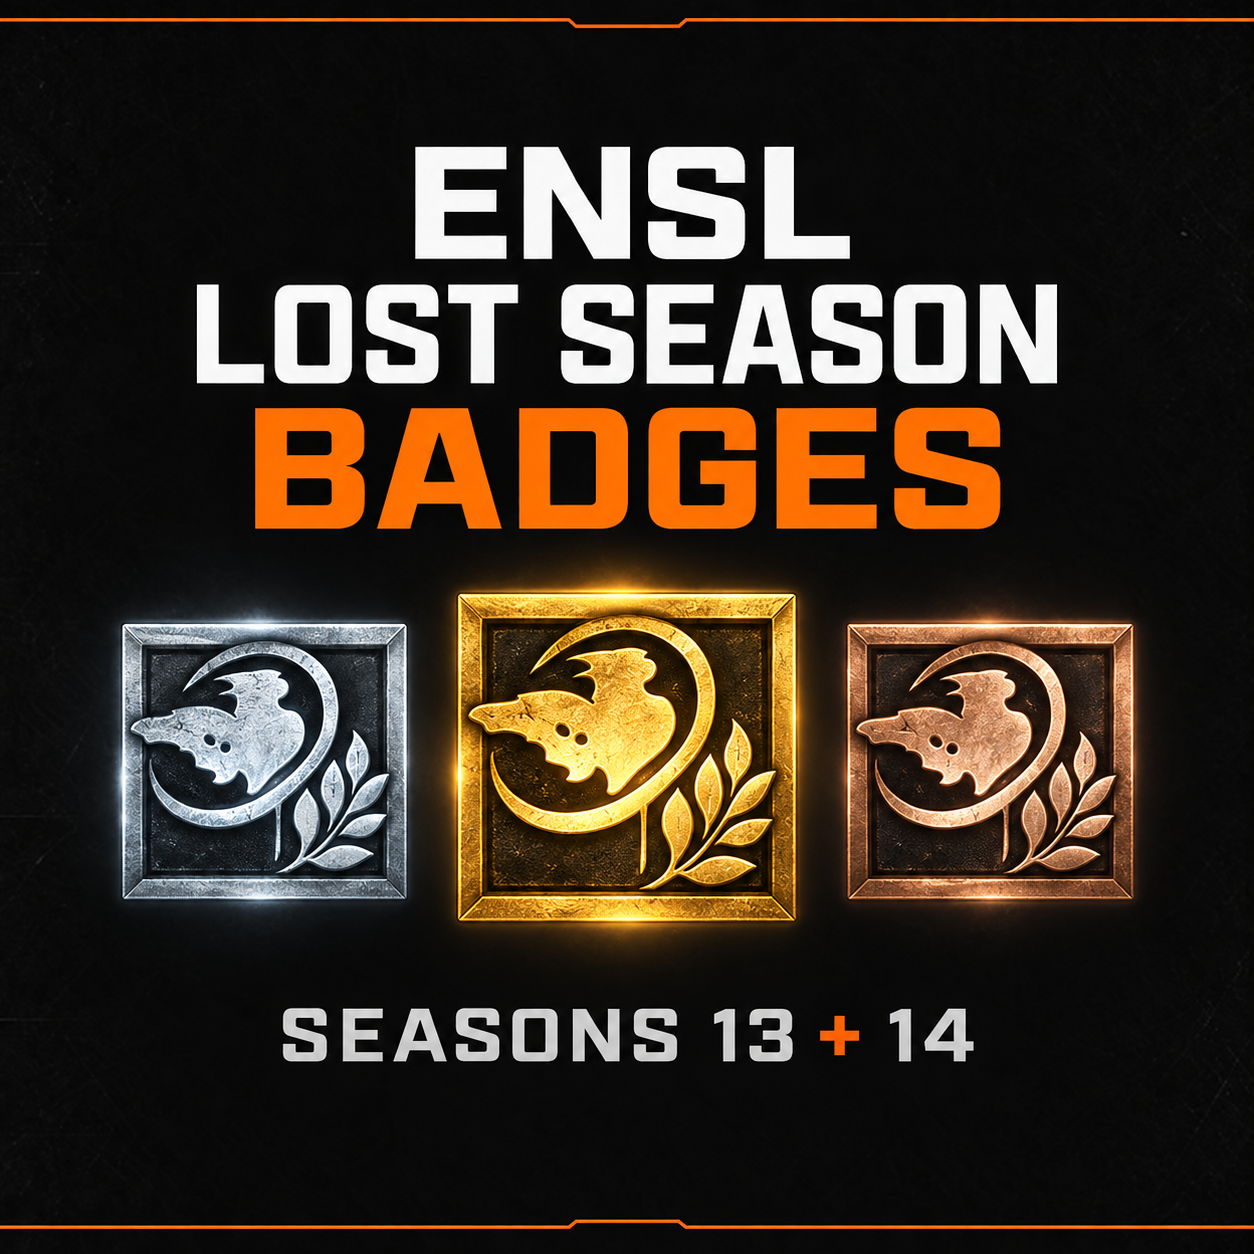
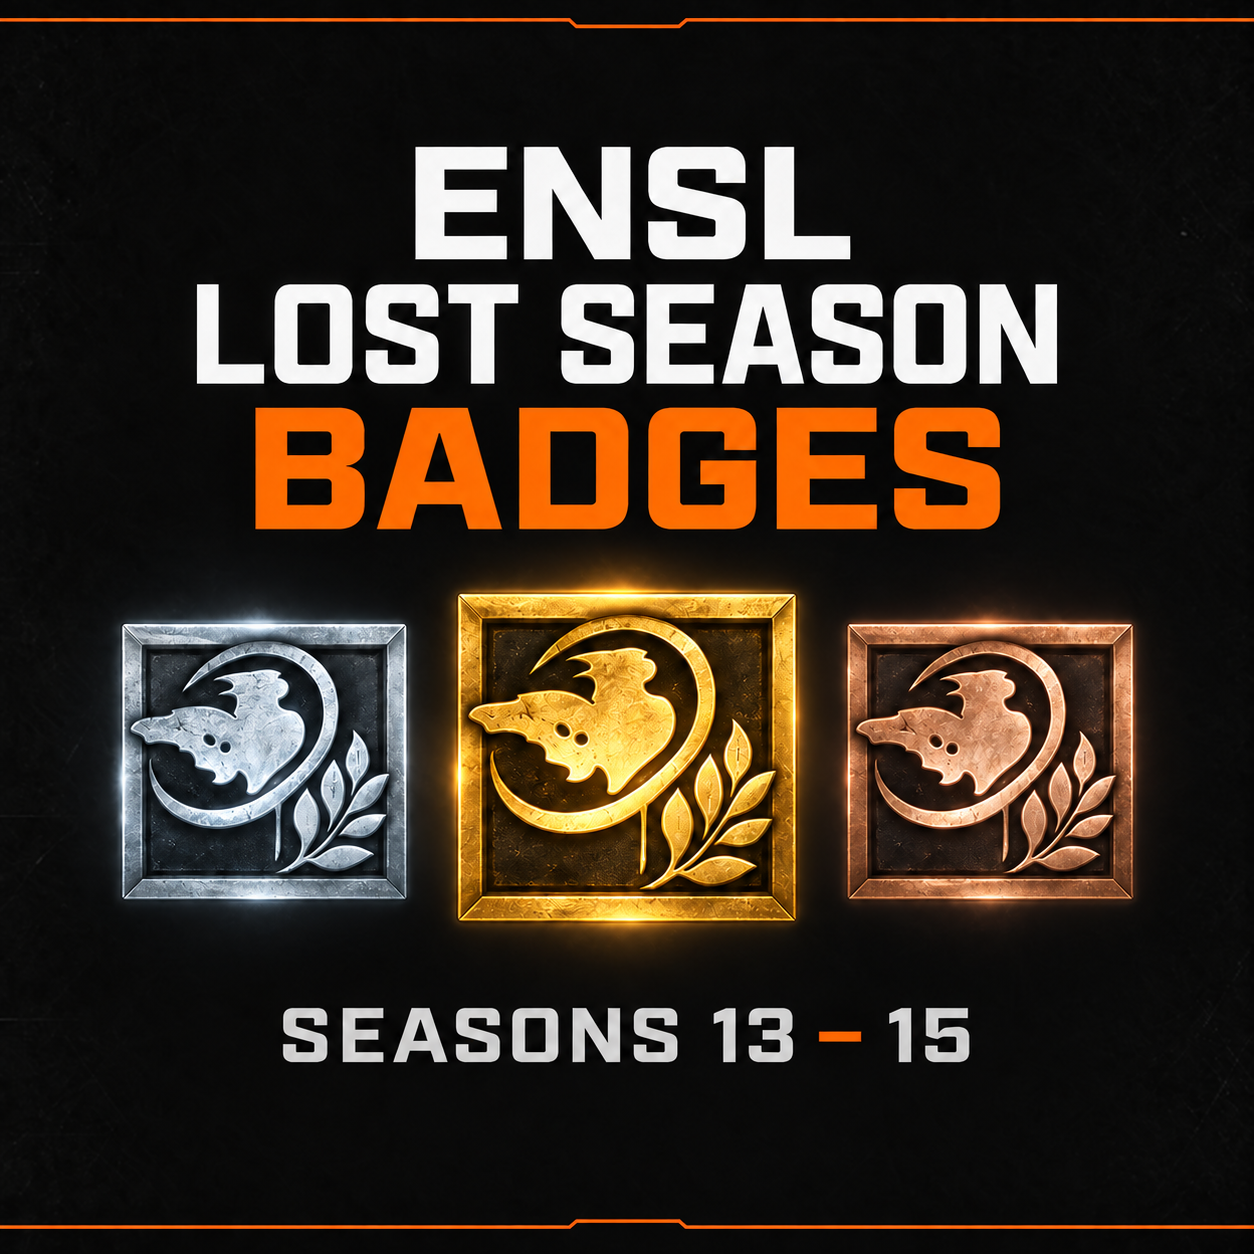
Include Season 15 awards and update Workshop cover

diff --git a/PLAN.md b/PLAN.md
@@ -4,9 +4,9 @@ Prepared 2026-09-15. Status: plan accepted; account research is the next milesto
 
 ## Objective and scope
 
-Create a standalone NS2 Workshop mod restoring Season 13 and Season 14 awards. Match existing ENSL artwork, tooltips, selection behavior, and in-game display as closely as the custom badge system permits. Assign eligibility to verified Steam accounts using NS2 account IDs.
+Create a standalone NS2 Workshop mod restoring Season 13, Season 14, and Season 15 awards. Match existing ENSL artwork, tooltips, selection behavior, and in-game display as closely as the custom badge system permits. Assign eligibility to verified Steam accounts using NS2 account IDs.
 
-Scope: NS2 Season 13 (2018), including all three divisions, and Season 14 (2018–2019). The older NS1 seasons and other tournaments are outside this project.
+Scope: NS2 Season 13 (2018), including all three divisions; Season 14 (2018–2019); and Season 15 (2019), including both divisions. The older NS1 seasons and other tournaments are outside this project.
 
 ## 1. Establish the award list
 
@@ -20,10 +20,14 @@ Accepted awards derived from the [Hall of Fame](https://www.ensl.org/halloffame)
 | Season 13, Division 2 | FaLLeN SouLs | patriarchy | Saunabois |
 | Season 13, Division 3 | Nismen | For The Lolz | Intergalactic |
 | Season 14 | Thots | Pubstars | Nismen |
+| Season 15, Division 1 | Code of Misconduct | 5 piece combo | Unassigned unless the next eligible team can be verified |
+| Season 15, Division 2 | California Burrito | Shoobs | Tim Tam Slams |
 
 Use Season 14's ladder order to fill the promoted podium. Its two-team playoff lists the same original top two, so it does not create a second set of awards.
 
 Season 13 Division 1 bronze is omitted. The user reported site data loss and accepted proceeding without reconstructing this placement. Do not infer a recipient from registration order or an unrelated group-stage ranking. Revisit only if reliable historical evidence becomes available; recovery is not a prerequisite for the mod.
+
+Season 15 adds five established award placements. Division 1 bronze remains unassigned: the Hall of Fame lists no next team, and the detailed playoffs page (https://www.ensl.org/contests/393) could not be retrieved. Do not guess a recipient. Include bronze only if reliable final standings and a historical roster establish the next eligible team; otherwise omit it. See [Season 15 scope and roster notes](docs/season-15.md).
 
 Record original and promoted ranks, source links, and promotion reasons. These are the mod's awards under the user's rule, not a claim that ENSL officially reassigned medals.
 
@@ -93,7 +97,7 @@ This can reproduce the experience on servers running the mod. It cannot issue of
 ## Review sequence
 
 1. Plan and award policy accepted; Season 13 Division 1 bronze omitted.
-2. Produce the account-matching table for the 11 awarded team placements.
+2. Produce the account-matching table for the 16 established awarded team placements; add S15 D1 bronze only if a next eligible team is verified.
 3. Demonstrate native integration and the visual reference.
 4. Complete all awards, validate compatibility, and prepare publication.
 

diff --git a/docs/artwork.md b/docs/artwork.md
@@ -4,7 +4,7 @@
 
 ![Existing ENSL medals](ensl-badge-reference.png)
 
-These are decoded copies of the installed NS2 textures, enlarged with nearest-neighbor scaling for inspection. The small versions underneath show the original 32 x 32 pixels. They are reference artwork, not new Season 13/14 textures.
+These are decoded copies of the installed NS2 textures, enlarged with nearest-neighbor scaling for inspection. The small versions underneath show the original 32 x 32 pixels. They are reference artwork, not new Season 13/14/15 textures.
 
 - Season 12: gold, silver, bronze; Gorge emblem and 2018 year. The three divisions share artwork but have separate names and award identifiers.
 - Seasons 16 and 17: the same general medal family with 2020 beneath the emblem.
@@ -13,9 +13,9 @@ These are decoded copies of the installed NS2 textures, enlarged with nearest-ne
 
 ## Proposed in-game direction
 
-Keep the compact Gorge emblem, medal colors, transparent silhouette, and native scale. Use season/division/place in the tooltip. Season 13 took place in 2018; Season 14 crossed 2018–2019. Settle the Season 14 year treatment when preparing actual textures, instead of accidentally displaying Season 12's year.
+Keep the compact Gorge emblem, medal colors, transparent silhouette, and native scale. Use season/division/place in the tooltip. Season 13 took place in 2018; Season 14 crossed 2018–2019; Season 15 took place in 2019. Settle the Season 14 year treatment when preparing actual textures, instead of accidentally displaying Season 12's year.
 
-There are 11 awarded team placements. No S13 D1 bronze recipient or award is planned. Distinct award identifiers may share the same visual texture.
+There are 16 established awarded team placements. No S13 D1 bronze recipient or award is planned. S15 D1 bronze is unassigned unless the next eligible team can be verified. Distinct award identifiers may share the same visual texture.
 
 The game declares separate scoreboard paths for some medals, but the installed ENSL Season 12/16/17 files inspected here only contain their base textures. Verify both display paths in the prototype.
 
@@ -33,5 +33,5 @@ The 512 x 512 cover matches the user's black/orange preview family, with metalli
 ## Next implementation work
 
 1. Create the sourced recipient manifest for the accepted placements and verify Steam-to-NS2 account links.
-2. Prepare native-sized Season 13/14 badge textures based on these references.
+2. Prepare native-sized Season 13/14/15 badge textures based on these references.
 3. Implement and test one account-bound custom badge before expanding to all awards.

diff --git a/docs/season-15.md b/docs/season-15.md
@@ -1,0 +1,35 @@
+# Season 15 scope and roster notes
+
+Season 15 ran in 2019 and is included at the user's request. The installed Badges_Shared.lua defines Season 12, 16, and 17 medals but no Season 15 medals.
+
+Source: [ENSL Hall of Fame](https://www.ensl.org/halloffame), checked 2026-09-15.
+
+## Awards under the project's promotion rule
+
+| Division | Published placement | Team | Mod award |
+| --- | --- | --- | --- |
+| 1 | 2 | Code of Misconduct | Gold |
+| 1 | 3 | 5 piece combo | Silver |
+| 2 | 1 | California Burrito | Gold |
+| 2 | 2 | Shoobs | Silver |
+| 2 | 3 | Tim Tam Slams | Bronze |
+
+Division 1's original first place is disqualified. No next team is listed in the Hall of Fame for promotion to bronze. The [playoffs page](https://www.ensl.org/contests/393) and [division page](https://www.ensl.org/contests/390) could not be retrieved. Bronze remains unassigned unless reliable final results and a historical roster identify the next eligible team; otherwise omit it.
+
+This is separate from S13 D1 bronze, whose omission was explicitly accepted following the user's report of site data loss.
+
+## Hall of Fame roster names to verify
+
+- Code of Misconduct: lome, turtsmcgurts, herakles, Spring, Zafod, Wake, Starcetereus.
+- 5 piece combo: y4mz, ydy, Doggo, tap, Nightsy, OMEGAWEAPON.
+- California Burrito: Noky, Simba, RobP, Jotobo, bily, Roland, Stark_.
+- Shoobs: DerEinzige, NeckSnapper, Sakhan, xankar, Keo, Bill.
+- Tim Tam Slams: RedNight, Critique, flip, clowning, Sylvi, Sardine.
+
+The source omits an opening parenthesis before RedNight; the list above interprets Tim Tam Slams as the team and RedNight as the first player. Corroborate that formatting when checking team records.
+
+These 32 roster entries are research inputs, not verified account assignments. Match every player to their ENSL/Steam profile, convert their account ID, and retain evidence before generating runtime grants.
+
+## Artwork
+
+The cover now reads SEASONS 13–15. Both exported formats remain exactly 512 x 512. Final in-game textures and tooltips must include Season 15 and both divisions.

diff --git a/docs/preview-prompt.md b/docs/preview-prompt.md
@@ -6,7 +6,7 @@ Style references: Bleus-Improved-Tooltips/preview.jpg and Hive-Spawn-Selector/pr
 
 The generated master is retained in assets/preview-master.png. The cover is exported at exactly 512 x 512 pixels as preview.png and preview.jpg. This is promotional artwork, not a final in-game texture.
 
-## Exact generation prompt
+## Original generation prompt (Seasons 13 + 14)
 
 Use case: ads-marketing.
 Asset type: Natural Selection 2 Steam Workshop mod cover, EXACTLY 512 by 512 pixels, square PNG.
@@ -24,3 +24,18 @@ Below the emblems render this exact centered line:
 "SEASONS 13 + 14"
 Use understated light gray typography with a small orange accent. No additional words, year numbers, captions, logos, watermark, fake interface controls, or unrelated characters. Avoid clutter, smoky cinematic scenes, heavy lens flares and excessive bevels. Palette follows the user's black/orange/white family with metallic badge colors.
 Return exactly 512x512 pixels.
+
+## Current revision: Seasons 13–15
+
+Tool: built-in image_gen edit. Input: the previously approved preview master. The current master and both 512 x 512 exports replace that version; the prior version remains in Git history.
+
+### Exact edit prompt
+
+Use case: text-localization.
+Edit the supplied ENSL Lost Season Badges Workshop cover.
+Change ONLY the bottom subtitle from "SEASONS 13 + 14" to "SEASONS 13–15".
+Use an orange en dash between 13 and 15, keeping the letters and digits light silver/white as in the original.
+Keep the subtitle centered, with the same font style, baseline, and approximate visual width.
+Preserve the approved composition, title text, typography, black background texture, thin orange top and bottom rules, all three metallic Gorge badge emblems, their details, colors, positions, glows, and every other element.
+No new text, symbols, graphics, or changes to the medals.
+Square output; intended final export is exactly 512x512 pixels.

diff --git a/README.md b/README.md
@@ -1,6 +1,6 @@
 # ENSL Lost Season Badges
 
-A Natural Selection 2 mod project restoring tournament badges for NSL Seasons 13 and 14, using existing ENSL badges as the visual and behavioral reference.
+A Natural Selection 2 mod project restoring tournament badges for NSL Seasons 13–15, using existing ENSL badges as the visual and behavioral reference.
 
 **Status:** plan accepted; Workshop cover prepared. Recipient verification and runtime implementation are next. There is no playable mod yet.
 
@@ -12,13 +12,13 @@ A Natural Selection 2 mod project restoring tournament badges for NSL Seasons 13
 - [Existing badge artwork and proposed direction](docs/artwork.md)
 - [Preview generation prompt](docs/preview-prompt.md)
 
-The cover is available as 512 x 512 PNG and JPEG. The badge comparison shows actual installed game textures; final Season 13/14 textures remain to be made.
+The cover is available as 512 x 512 PNG and JPEG. The badge comparison shows actual installed game textures; final Season 13/14/15 textures remain to be made.
 
 ## Award policy
 
 Use current ENSL standings, remove disqualified teams from the relevant competition, and promote remaining teams in order. Preserve published placement separately from the mod's promoted award.
 
-Season 13 Division 1 bronze is omitted because the historical records are unavailable. The accepted scope contains 11 awarded team placements.
+Season 13 Division 1 bronze is omitted because the historical records are unavailable. The accepted scope contains 16 established awarded team placements across Seasons 13–15. S15 D1 bronze is unassigned unless the next eligible team can be verified.
 
 Primary results source: [ENSL Hall of Fame](https://www.ensl.org/halloffame).
 
